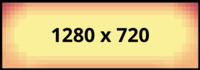
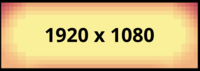
[ADDED] : some different size

Changed region(s): [[0.0, 0.0286, 1.0, 1.0], [0.21, 0.3714, 0.78, 0.6286]]

diff --git a/src/setting.c b/src/setting.c
@@ -7,6 +7,26 @@
 #include "rpg.h"
 #include <SFML/Graphics.h>
 
+void event_setting(sfEvent event, Global_t *m)
+{
+    if (event.type == sfEvtMouseButtonPressed) {
+        sfVector2i mouse = sfMouse_getPositionRenderWindow(m->window);
+        sfFloatRect bigzBounds = sfSprite_getGlobalBounds(m->setting.bigz);
+        sfFloatRect mediumzBounds = sfSprite_getGlobalBounds(m->setting.mediumz);
+        sfFloatRect littlezBounds = sfSprite_getGlobalBounds(m->setting.littlez);
+
+        if (sfFloatRect_contains(&bigzBounds, mouse.x, mouse.y)) {
+            sfRenderWindow_setSize(m->window, (sfVector2u){1920, 1080});
+        }
+        else if (sfFloatRect_contains(&mediumzBounds, mouse.x, mouse.y)) {
+            sfRenderWindow_setSize(m->window, (sfVector2u){1280, 720});
+        }
+        else if (sfFloatRect_contains(&littlezBounds, mouse.x, mouse.y)) {
+            sfRenderWindow_setSize(m->window, (sfVector2u){800, 600});
+        }
+    }
+}
+
 void init_setting(Global_t *m)
 {
     m->setting.background_s = init_sprite("assets/setting/background.png", (sfVector2f){0, 0});

diff --git a/src/main.c b/src/main.c
@@ -17,6 +17,7 @@ void event_click(sfEvent event, Global_t *m)
         sfRenderWindow_close(m->window);
     if (event.type == sfEvtKeyPressed && event.key.code == sfKeySpace)
         m->setting.toto++;
+    event_setting(event, m);
 }
 
 void rpg(Global_t *m)

diff --git a/src/rpg.h b/src/rpg.h
@@ -34,5 +34,6 @@ sfText *init_text(char *str, int size, sfVector2f pos);
 void init_setting(Global_t *m);
 void draw_setting(Global_t *m);
 void draw_inventaire(Global_t *m);
+void event_setting(sfEvent event, Global_t *m);
 
 #endif
